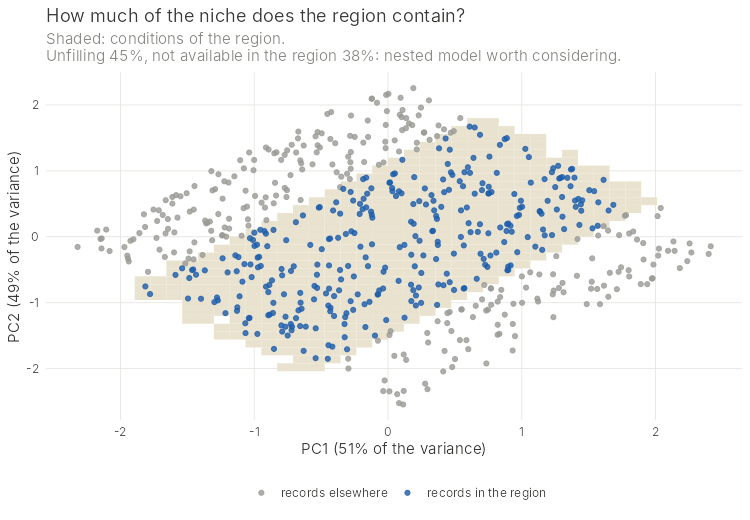
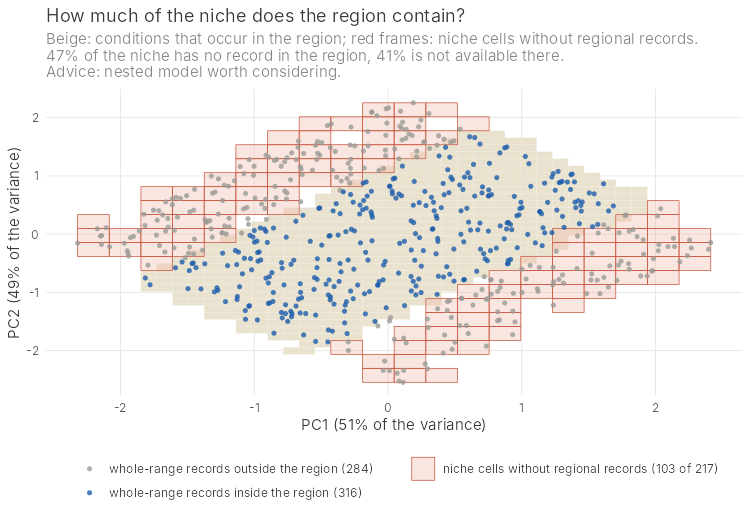
niche_coverage: unfilling by niche cells, not records (2.20.0)
- unfilling and not_available count cells of environmental space, each
  once; the record-based shares could never exceed the share of records
  outside the region, so a well-sampled region hid a large part of the
  niche known from few records elsewhere
- unfilling_records / not_available_records kept for comparison;
  min_records; bins table
- plot frames the unfilled niche cells in red; regional records smaller
- printout explains per-variable vs niche shares
- tests (sampling-bias case), README, NEWS, figure

Claude-Session: https://claude.ai/code/session_016vzwX4WM1PTi9LQ4YKu42d

diff --git a/README.md b/README.md
@@ -627,10 +627,23 @@ the regional model.
 
 | Result | Meaning |
 |---|---|
-| `unfilling` | share of the species' niche (whole-range records in the first two principal components) without a regional record, the measure of Goicolea et al. (2025) |
-| `not_available` | share of the niche in conditions that do not occur in the region at all; no regional model can learn them |
+| `unfilling` | share of the species' niche without a regional record, the measure of Goicolea et al. (2025): the space of the first two principal components is cut into cells, the niche is the cells holding whole-range records, and each cell counts once however many records it holds |
+| `not_available` | share of the niche cells whose conditions do not occur in the region at all; no regional model can learn them |
+| `unfilling_records`, `not_available_records` | the same counted by records; for comparison only (see below) |
 | per variable: `coverage`, `outside_records`, `outside_region` | part of the variable's range covered by the regional records, and the share of whole-range records beyond the regional records and beyond the region's conditions |
 | `advice` | unfilling below 10%: a regional model is sufficient; 10–50%: a nested model is worth considering, above all for projections; above 50% ("very poorly filled"): strongly advised (`limits` to change); "cannot be judged" if all records lie in the region |
+
+**Why niche cells and not records.** Regions of interest are usually the
+best-sampled part of a range. If 93% of the records come from the region,
+the share of *records* in the unfilled niche can never exceed 7%, even if
+the other 7% reveal a large part of the niche: a broad niche known from few
+records elsewhere would hardly count, and the advice would wrongly say that
+a regional model is enough. Counting each occupied cell of environmental
+space once removes this dependence on sampling effort. The printout gives
+both, and the plot frames the unfilled niche cells in red. Per variable,
+the shares are smaller than in the niche, because a record can lie within
+the range of every single variable but in a combination of conditions that
+the region lacks.
 
 If `unfilling` is much larger than `not_available`, the missing conditions
 exist in the region but the species has no records there (absent,

diff --git a/NEWS.md b/NEWS.md
@@ -1,3 +1,21 @@
+# preENM 2.20.0
+
+* `niche_coverage()`: **`unfilling` and `not_available` now count cells of
+  environmental space, not records.** Each cell occupied by the species
+  counts once, however many records it holds. Before, they were shares of
+  records, which can never exceed the share of records outside the region:
+  with a well-sampled region (often 90% or more of the records) a large
+  part of the niche known from few records elsewhere hardly counted, and
+  the advice could wrongly say that a regional model is enough. The
+  record-based shares are still given (`unfilling_records`,
+  `not_available_records`) for comparison. New `min_records` (records a
+  cell needs to count) and `bins` (one row per niche cell).
+* `plot_niche_coverage()` frames the niche cells without regional records
+  in red, with their number in the legend; regional records are drawn
+  smaller so the records below stay visible.
+* The printout explains why the per-variable shares are smaller than those
+  of the niche (single variables against combinations of conditions).
+
 # preENM 2.19.0
 
 * **Every plotting function can save its figure**: `file = "fig.pdf"`
